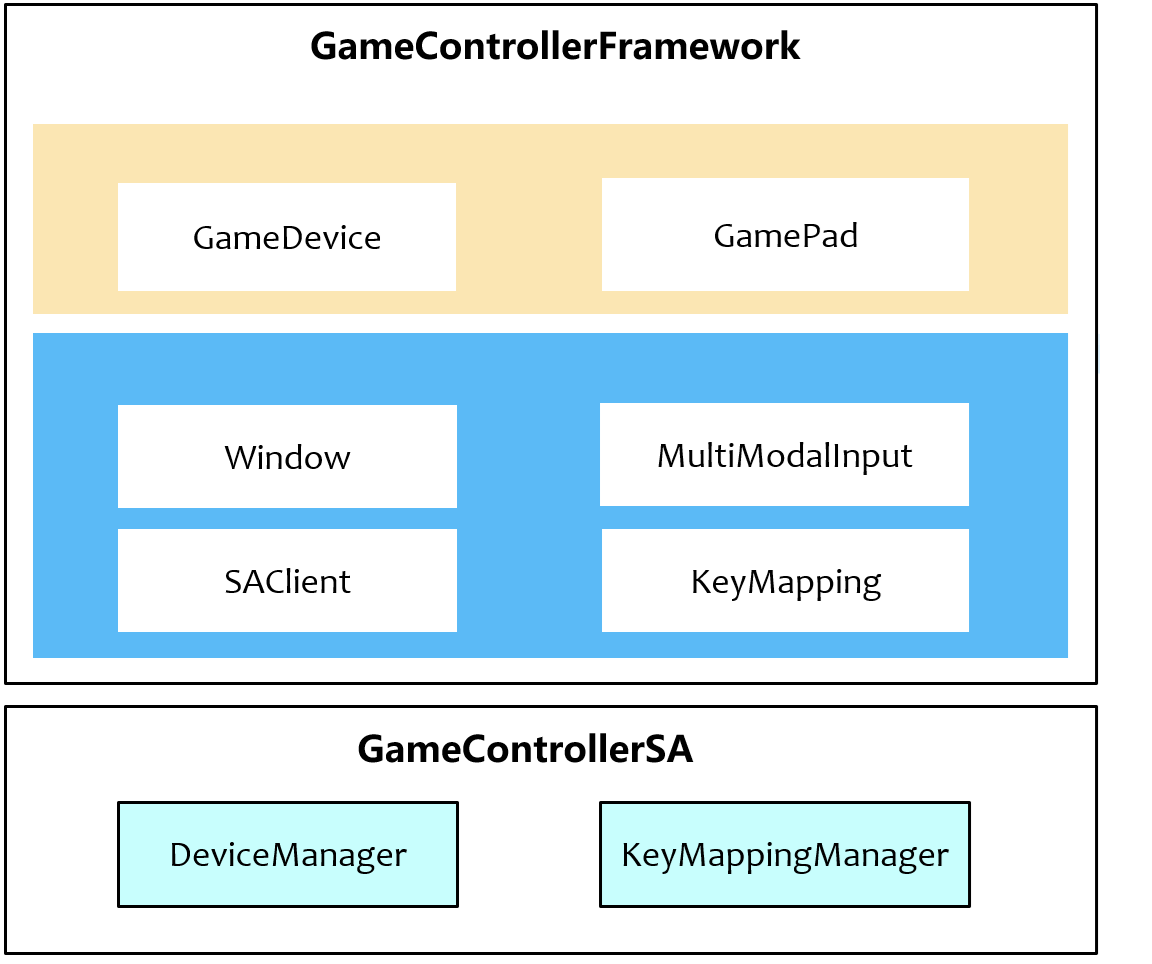
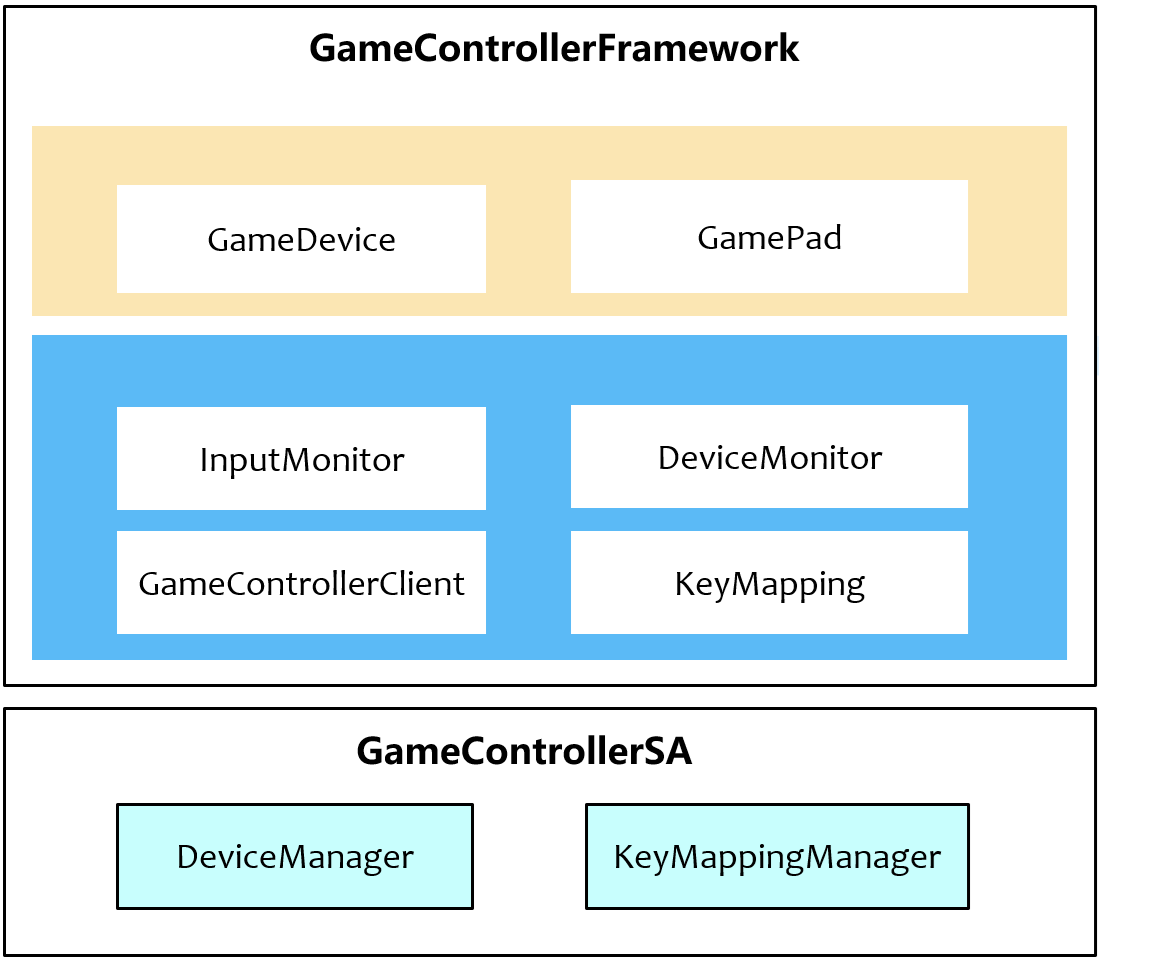
修改图片 Signed-off-by: jinsitao <jinsitao.jin@huawei.com>

diff --git a/README_zh.md b/README_zh.md
@@ -35,13 +35,13 @@ GameController给游戏开发者提供游戏外设接入能力的API，实现对
 
   给游戏开发者提供API，用于接收游戏手柄的输入事件通知。
 
-- **Window**
+- **InputMonitor**
 
   对接窗口Framework，向窗口注册需要拦截监听的游戏外设的输入事件。收到事件后，进行如下处理：
     - 如果开发者调用API监听游戏外设的输入事件，则将拦截的游戏外设输入事件回调通知给游戏。
     - 如果游戏支持输入转触控，则将拦截的游戏外设输入事件用于输入转触控特性。
 
-- **MultiModalInput**
+- **DeviceMonitor**
 
   对接多摸输入，实现监听游戏外设的上线和下线事件。收到事件后，进行如下处理：
     - 如果开发者调用API监听游戏外设的上线和下线事件，则将游戏外设的上线和下线事件需要回调通知给游戏。
@@ -54,7 +54,7 @@ GameController给游戏开发者提供游戏外设接入能力的API，实现对
     - 基于游戏外设的输入事件和游戏外设类别，判断是否需要发送编辑输入转触控配置的通知。 当在键盘同时按下Q、W、P时，表示需要打开键盘的输入转触控的配置界面。
     - 基于输入转触控配置，将游戏外设的输入事件（按键事件、鼠标事件等）转为屏幕触屏事件。
 
-- **SAClient**
+- **GameControllerClient**
 
   GameControllerSA的InnerAPI的定义。
 

diff --git a/README.md b/README.md
@@ -44,7 +44,7 @@ Note: Currently, only CAPI is available, and ArkTS interface will be planned for
 - **GamePad**
 
   Provide an API for game developers to receive input event notifications from game controllers.
-- **Window**
+- **InputMonitor**
 
   Connect to the window Framework and register the input events of the game peripherals that need to be intercepted and
   monitored to the window. Upon receiving the events, perform the following processing:
@@ -53,7 +53,7 @@ Note: Currently, only CAPI is available, and ArkTS interface will be planned for
     - If the game supports input conversion to touch, the intercepted game peripheral input events will be used for the
       input-to-touch feature.
 
-- **MultiModalInput**
+- **DeviceMonitor**
 
   Connect to multi-modal-input to monitor the online and offline events of gaming peripherals. Upon receiving an
   event, perform the following processing:
@@ -73,7 +73,7 @@ Note: Currently, only CAPI is available, and ArkTS interface will be planned for
 
     - Based on the input-to-touch configuration, the input events of gaming peripherals (such as key events, mouse
       events, etc.) are converted into touchscreen events on the screen.
-- **SAClient**
+- **GameControllerClient**
 
   Definition of InnerAPI for GameControllerSA.
 
